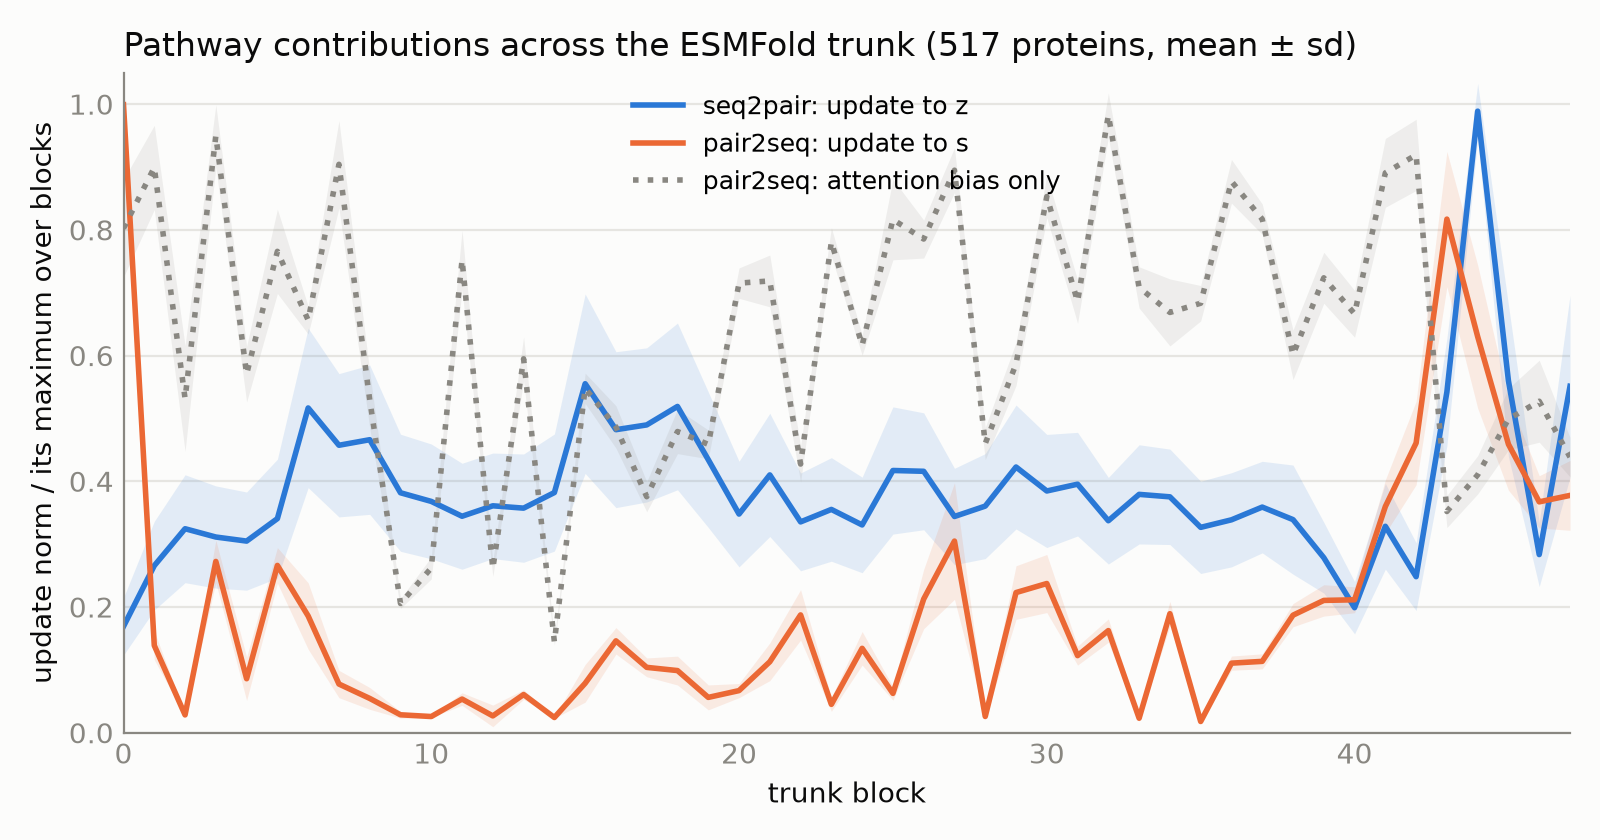
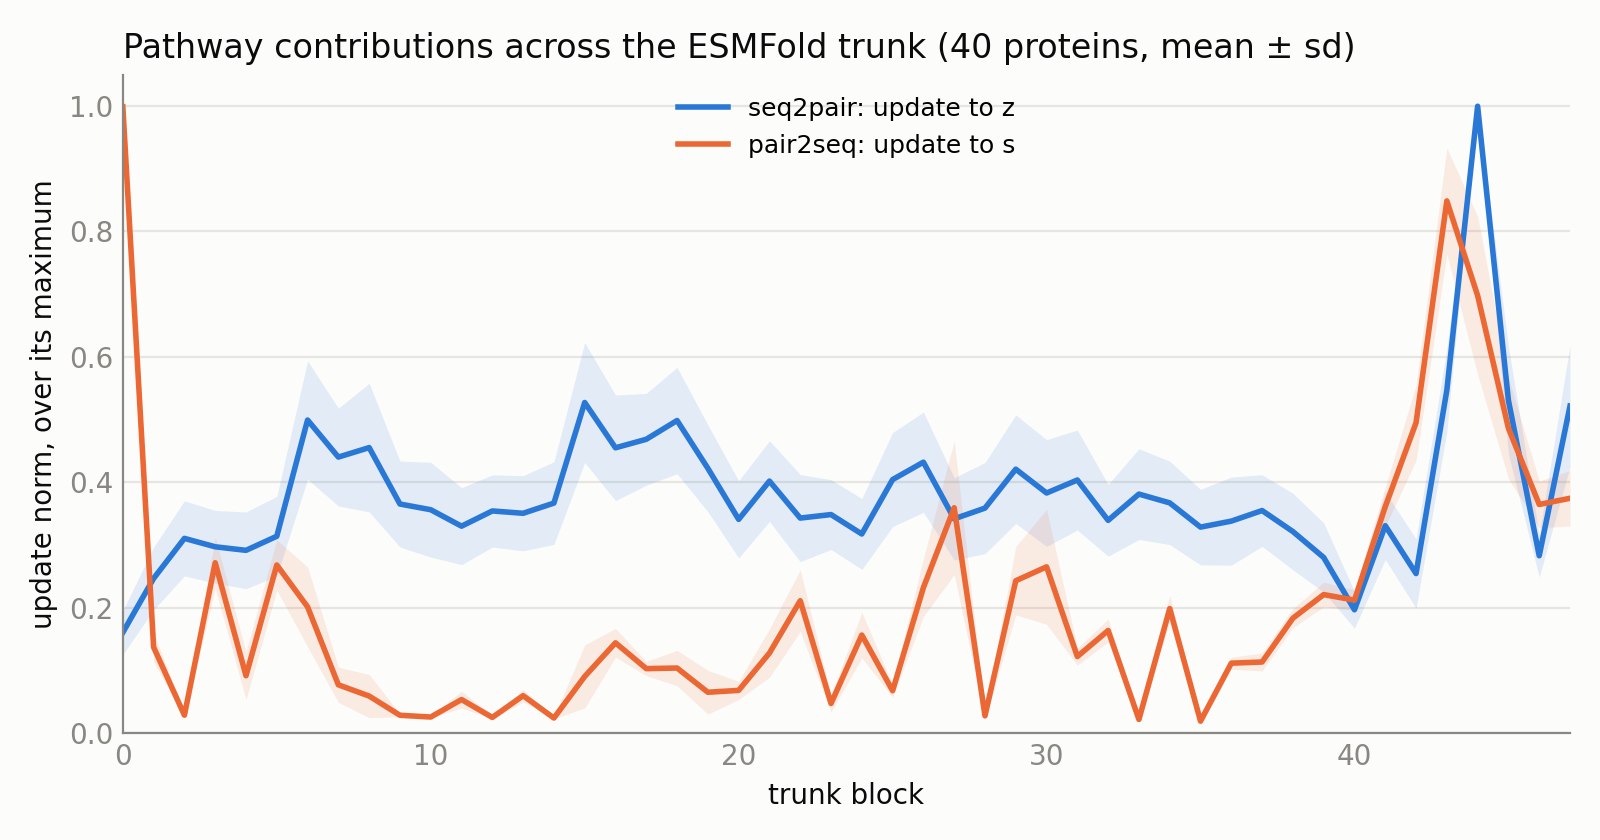
Update the pathway contributions chart and the scaling explanation
Replot the pathway contributions from the 40 protein run and drop the attention
bias line from the figure; the script still records it. The text now reports the
raw norms and notes that the relative measure puts the seq2pair peak at block 0
only because z is small there. The scaling section explains why scaling s changes
nothing and scaling z does: s is normalized inside the structure module and z is
never updated by it.

diff --git a/website/src/routes/my-results/+page.svelte b/website/src/routes/my-results/+page.svelte
@@ -95,7 +95,10 @@
 		that factor just before the structure module reads it. From 0.25 upward, scaling z moves the output distances
 		monotonically: the mean pairwise CA distance is 10.2 Å below the unscaled fold at 0.25, 3.6 Å below at 0.75, 2.7 Å above at
 		1.25 and 6.8 Å above at 2. Scaling s changes nothing, within 0.03 Å at every scale. The paper reports the same two results,
-		that the structure module takes its distances from z and not from s. The curve is steeper below 1 than above it. At 0 and
+		that the structure module takes its distances from z and not from s. The structure module explains this asymmetry: s goes
+		through a LayerNorm in its MLP (transition) section, which removes a uniform scale, while z is never updated by the
+		structure module, so nothing renormalizes it and the scaled z reaches the attention bias at full size in every layer. The
+		curve is steeper below 1 than above it. At 0 and
 		0.25 the input carries almost no pair information and the folds collapse (pLDDT 0.32 and 0.46), and the distance at 0 is
 		slightly larger than at 0.25, so the trend does not hold all the way down.
 		Part of the change is the chain itself changing length: consecutive CA atoms are 3.8 Å apart at scale 1, about 3.1 Å at
@@ -123,26 +126,27 @@
 	<p class="mt-1 text-sm leading-relaxed text-space-indigo-800">
 		At every trunk block, the norm of the update each pathway writes: the sequence-to-pair update added to z, and the
 		pair-to-sequence update added to s, taken as the sequence attention output, which is where z reaches s. Each pathway's 48
-		values are divided by their maximum and averaged over 517 proteins. This does not yet reproduce Fig. 4b. Pair-to-sequence
-		is small in the middle and rises late, as in the paper, but it also spikes at block 0. Sequence-to-pair stays between 0.3
-		and 0.5 through the middle and peaks at block 44, where the paper has it peaking in the first ten blocks and declining. The
-		curves are consistent across proteins, so the jaggedness comes from the blocks themselves. These are raw updates; ESMFold's
-		blocks are pre-norm, so dividing each by the size of the state it is added to may be the comparison the paper makes, and
-		that has not been run.
+		values are divided by their maximum and averaged over 40 proteins. This does not reproduce Fig. 4b. Pair-to-sequence is
+		small in the middle (0.14) and rises late, peaking at block 43, as in the paper, but it also spikes at block 0.
+		Sequence-to-pair is lowest at block 0 and stays between 0.3 and 0.5 through the trunk, peaking at block 44, where the paper
+		has it peaking in the first ten blocks and declining. These are raw updates, and ESMFold's blocks are pre-norm, so the
+		effect of an update depends on the size of the state it is added to. The paper does not say whether its norms are raw or
+		relative to that state. Dividing each update by the norm of z or s instead puts the sequence-to-pair peak at block 0 and
+		declines it through the trunk, but only because z is small at block 0 (about 2,200, against 36,000 at the end); the raw
+		update itself is smallest there.
 	</p>
 
 	<figure class="mt-4">
 		<img
 			src={pathwayContributions}
-			alt="Line chart of normalized update norm against trunk block. Sequence-to-pair rises from 0.2 at block 0 to about 0.5 by block 6, stays between 0.3 and 0.5 through the middle, and peaks at 1.0 at block 44. Pair-to-sequence starts at 1.0 at block 0, drops to near 0 and stays low through the middle, then rises to 0.8 at block 43. A dotted line for the attention bias alone is noisy, between 0.15 and 1.0."
+			alt="Line chart of normalized update norm against trunk block. Sequence-to-pair starts at 0.16 at block 0, rises to about 0.5 by block 6, stays between 0.3 and 0.5 through the middle, and peaks at 1.0 at block 44. Pair-to-sequence starts at 1.0 at block 0, drops to near 0 and stays low through the middle, then rises to 0.85 at block 43."
 			width="1600"
 			height="840"
 			class="h-auto w-full rounded-md border border-space-indigo-500"
 		/>
 		<figcaption class="mt-2 text-xs leading-relaxed text-space-indigo-700">
 			Update norm per trunk block, each pathway divided by its own maximum, after Fig. 4b of the paper. The shaded band is one
-			standard deviation over proteins. The dotted line is the pair-to-sequence attention bias alone, a weaker proxy. Not a
-			reproduction of the paper's curve yet.
+			standard deviation over 40 proteins. Not a reproduction of the paper's curve.
 		</figcaption>
 	</figure>
 </div>

diff --git a/scripts/pathway_contributions.py b/scripts/pathway_contributions.py
@@ -12,7 +12,7 @@ Per block, one fold without recycling records
     pair2seq    the update added to s: the output of block.seq_attention, the
                 only place z reaches s (it carries the pair bias)
     pair_bias   the output of block.pair_to_sequence, the bias alone; a weaker
-                proxy for pair2seq, plotted for comparison
+                proxy for pair2seq, recorded but not plotted
 Each is the Frobenius norm over all positions. The blocks are pre-norm: each
 sublayer LayerNorms its input and adds its raw output to the residual stream, so
 these are raw updates and their size depends on how large the stream is at that
@@ -48,6 +48,7 @@ from transformers import AutoTokenizer, EsmForProteinFolding
 from patch_esmfold import HUB_ID, fold
 
 PATHWAYS = ["seq2pair", "pair2seq", "pair_bias"]
+PLOTTED = ["seq2pair", "pair2seq"]
 LABELS = {
     "seq2pair": "seq2pair: update to z",
     "pair2seq": "pair2seq: update to s",
@@ -144,11 +145,10 @@ def plot(table, path, measure):
 
     fig, ax = plt.subplots(figsize=(8, 4.2), facecolor=SURFACE)
     ax.set_facecolor(SURFACE)
-    for pathway in PATHWAYS:
+    for pathway in PLOTTED:
         if pathway not in mean:
             continue
-        style = ":" if pathway == "pair_bias" else "-"
-        ax.plot(mean.index, mean[pathway], style, color=COLORS[pathway], linewidth=2, label=LABELS[pathway])
+        ax.plot(mean.index, mean[pathway], "-", color=COLORS[pathway], linewidth=2, label=LABELS[pathway])
         ax.fill_between(mean.index, mean[pathway] - spread[pathway], mean[pathway] + spread[pathway],
                         color=COLORS[pathway], alpha=0.12, linewidth=0)
 
